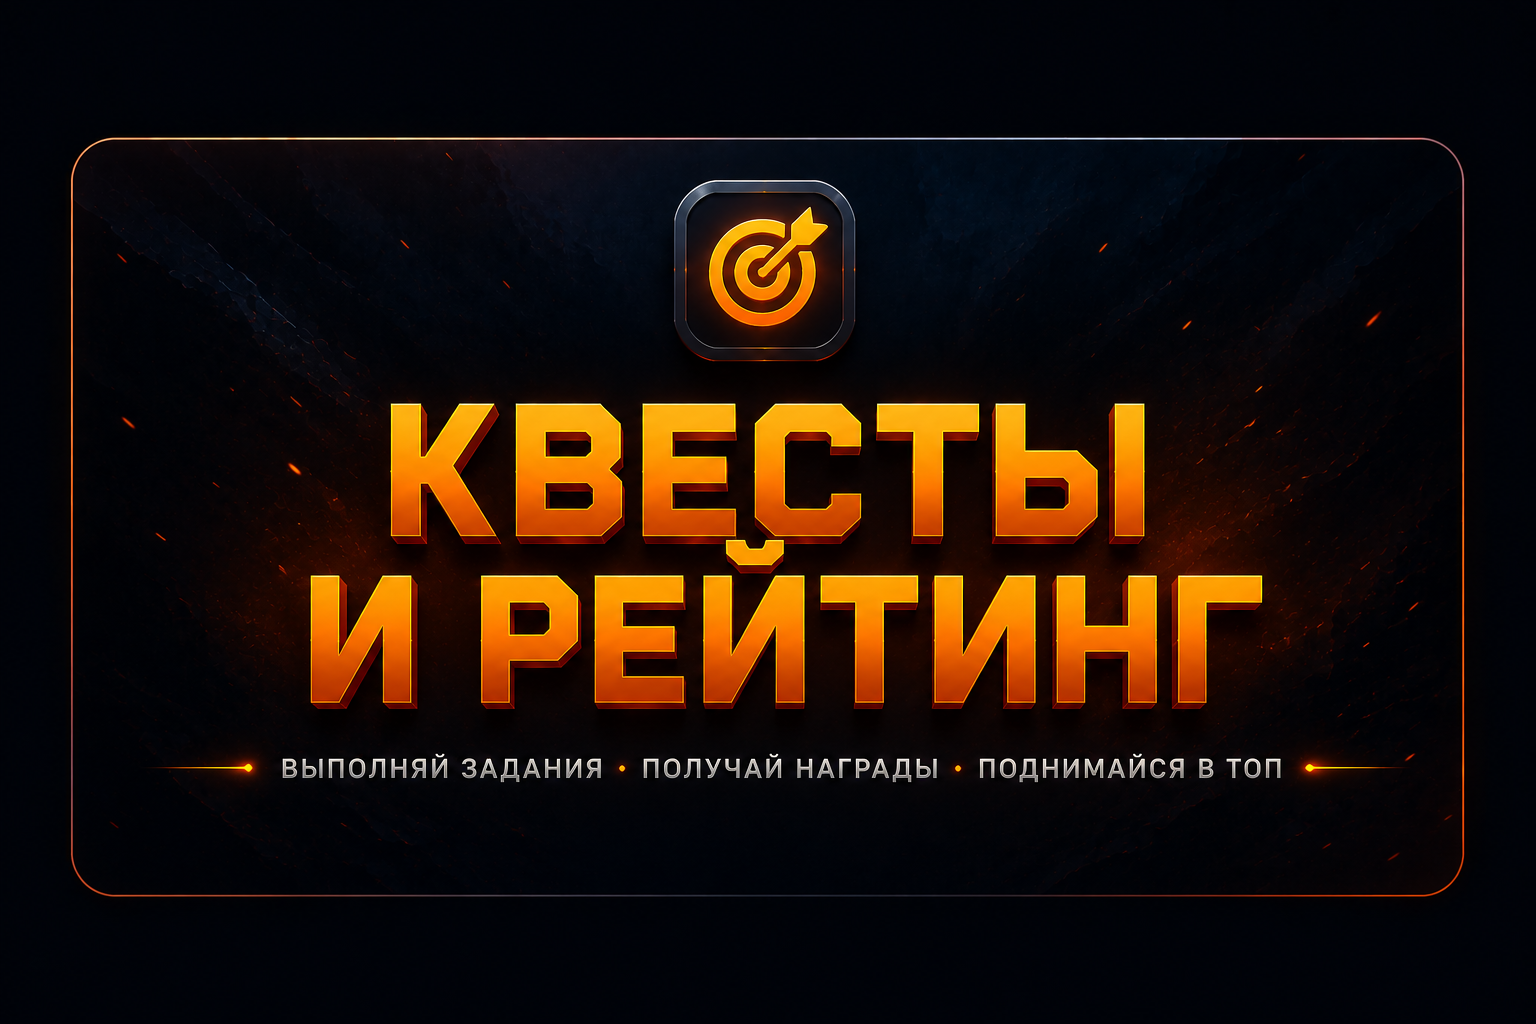
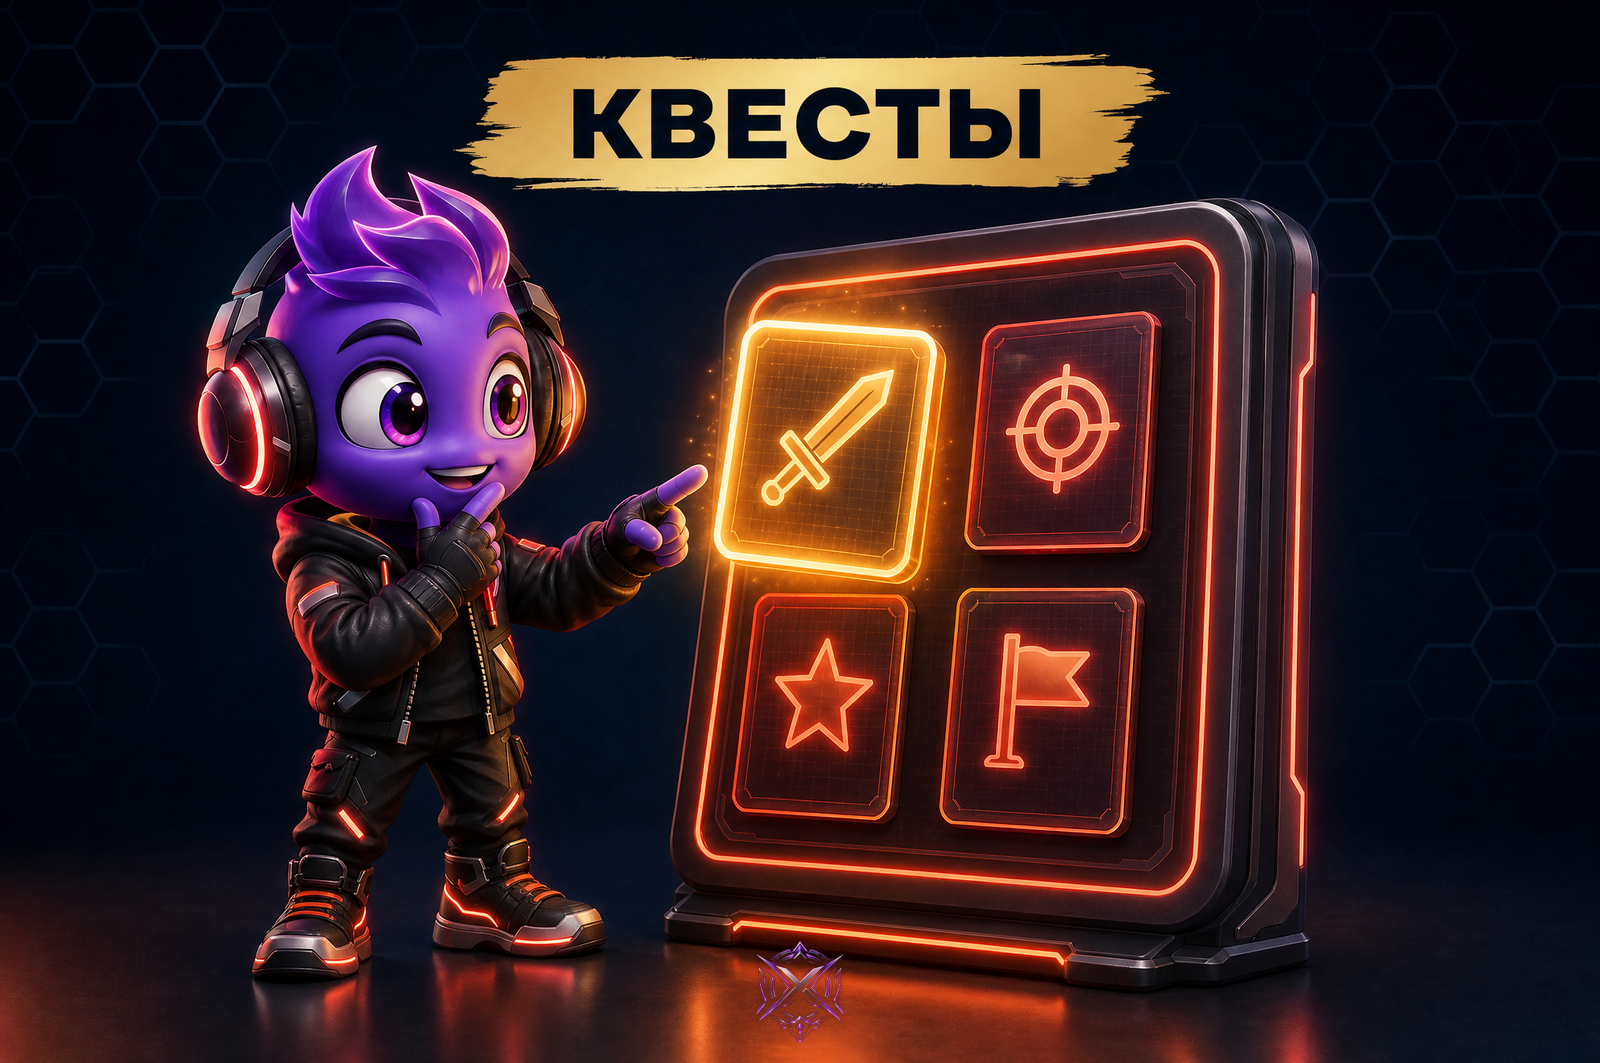
Add: новые баннеры с Экси для разделов Квесты, Клуб, Фортуна и Рефералы (в Фортуне и Рефералах баннер показывается впервые, через sendResourceBanner)

diff --git a/src/main/java/ru/gamebot/platform/bot/GamePlatformBot.java b/src/main/java/ru/gamebot/platform/bot/GamePlatformBot.java
@@ -3974,11 +3974,15 @@ public class GamePlatformBot extends TelegramLongPollingBot {
         String rerollLabel = egcPass
                 ? "🔁 Ещё один улучшенный сундук — " + CHEST_REROLL_STARS_PRICE + " ⭐"
                 : "🔁 Улучшенный сундук дня — " + CHEST_REROLL_STARS_PRICE + " ⭐";
-        sendMenuCategory(user, "🍀 <b>Фортуна</b>", List.of(
+        List<List<InlineKeyboardButton>> fortuneRows = new ArrayList<>(List.of(
                 List.of(keyboardFactory.callback(wheelLabel, "wheel:menu")),
                 List.of(keyboardFactory.callback(chestLabel, "menu:chestopen")),
                 List.of(keyboardFactory.callback(rerollLabel, "menu:chestreroll"))
-        ), "menu:cat:more");
+        ));
+        fortuneRows.add(backRow("menu:cat:more"));
+        // Баннер «Фортуна» (Экси у колеса); при сбое отправки sendResourceBanner шлёт обычный текст с теми же кнопками.
+        sendResourceBanner(user.getTelegramId(), "fortune_banner.jpg", "🍀 <b>Фортуна</b>",
+                keyboardFactory.rowsLayout(fortuneRows));
     }
 
     private void sendRulesMessage(AppUser user, InlineKeyboardMarkup keyboard) {
@@ -6774,7 +6778,9 @@ public class GamePlatformBot extends TelegramLongPollingBot {
                 : "🎖 До бейджа «" + userService.invitedFriendsBadgeName(nextFriendMilestone) + "»: "
                         + user.getInvitedFriends() + " из " + nextFriendMilestone + " друзей\n\n";
 
-        sendText(user.getTelegramId(),
+        // Баннер «Рефералы» (Экси у портала-приглашения); если подпись длиннее лимита Telegram,
+        // sendResourceBanner сам пришлёт картинку без подписи и текст отдельным сообщением.
+        sendResourceBanner(user.getTelegramId(), "referrals_banner.jpg",
                 "🤝 <b>Рефералы EGC</b>\n\n"
                         + boostBanner
                         + referralGoalBlock(user)
